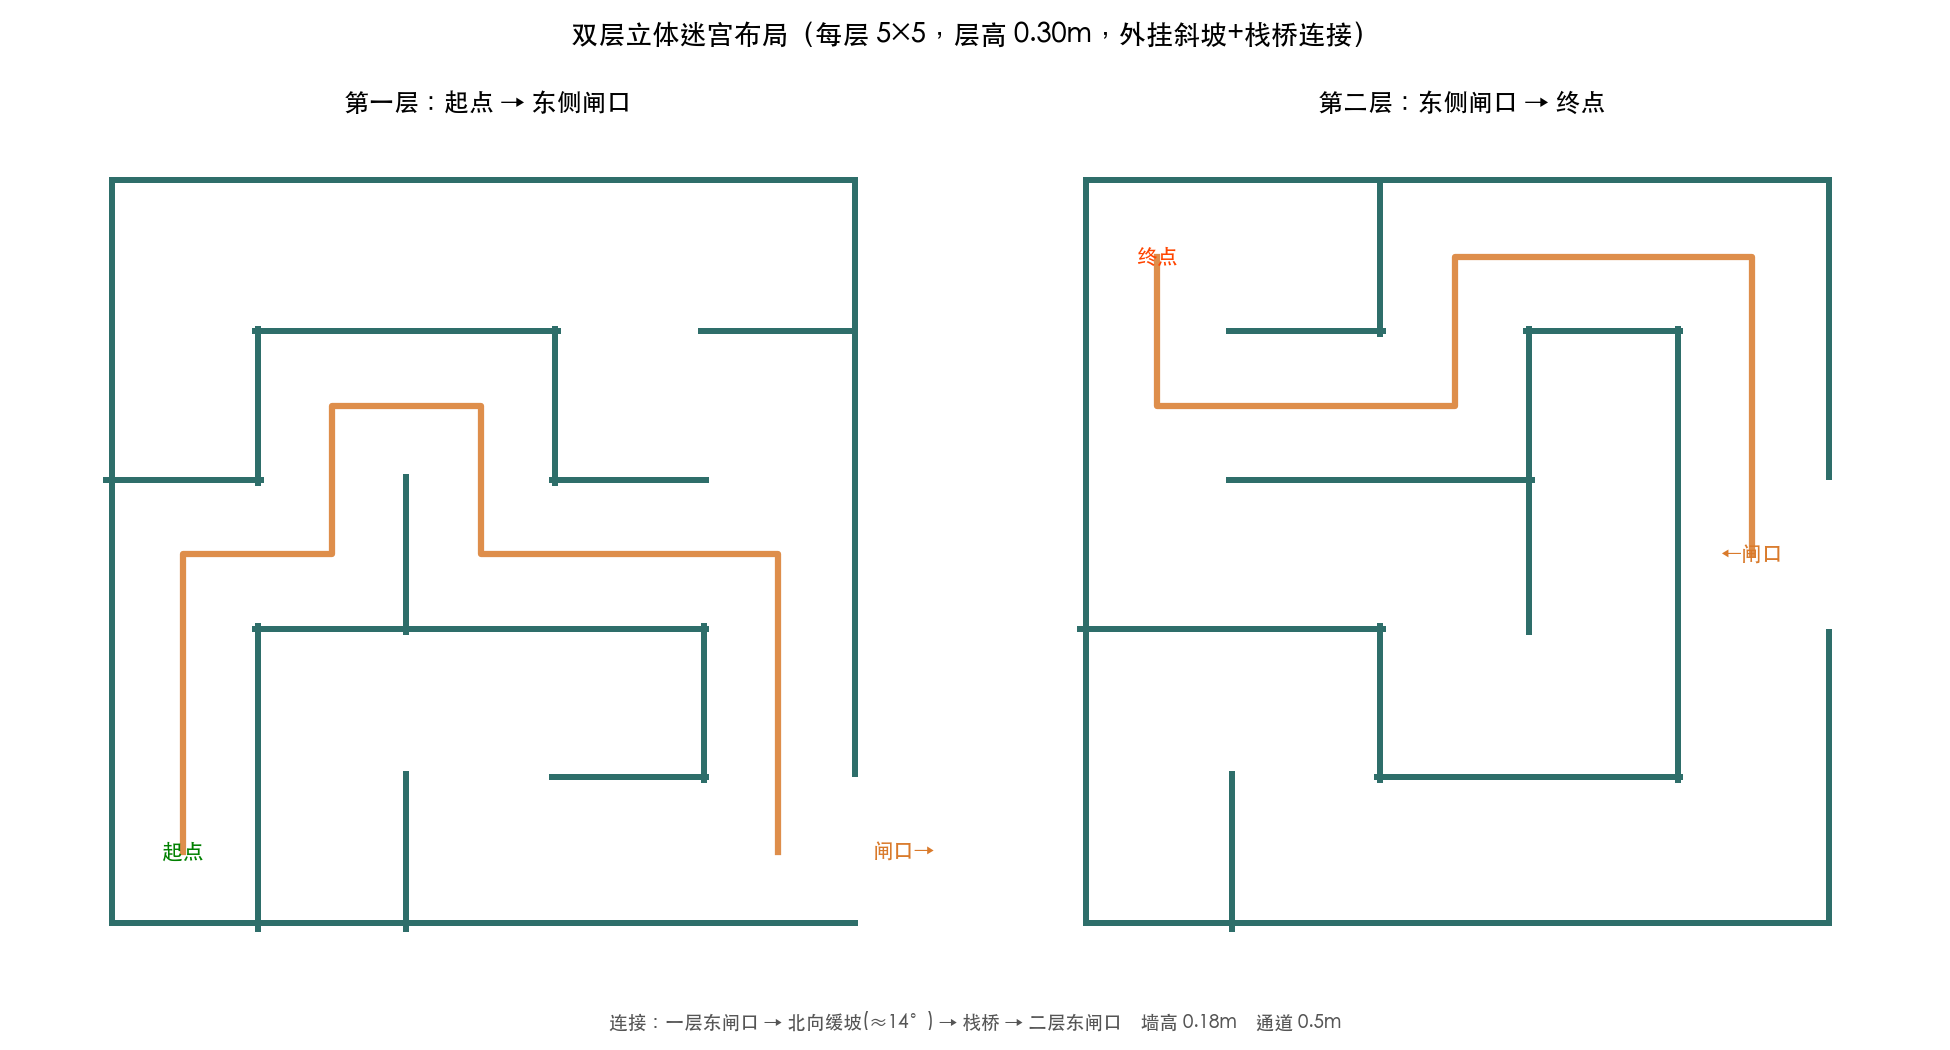
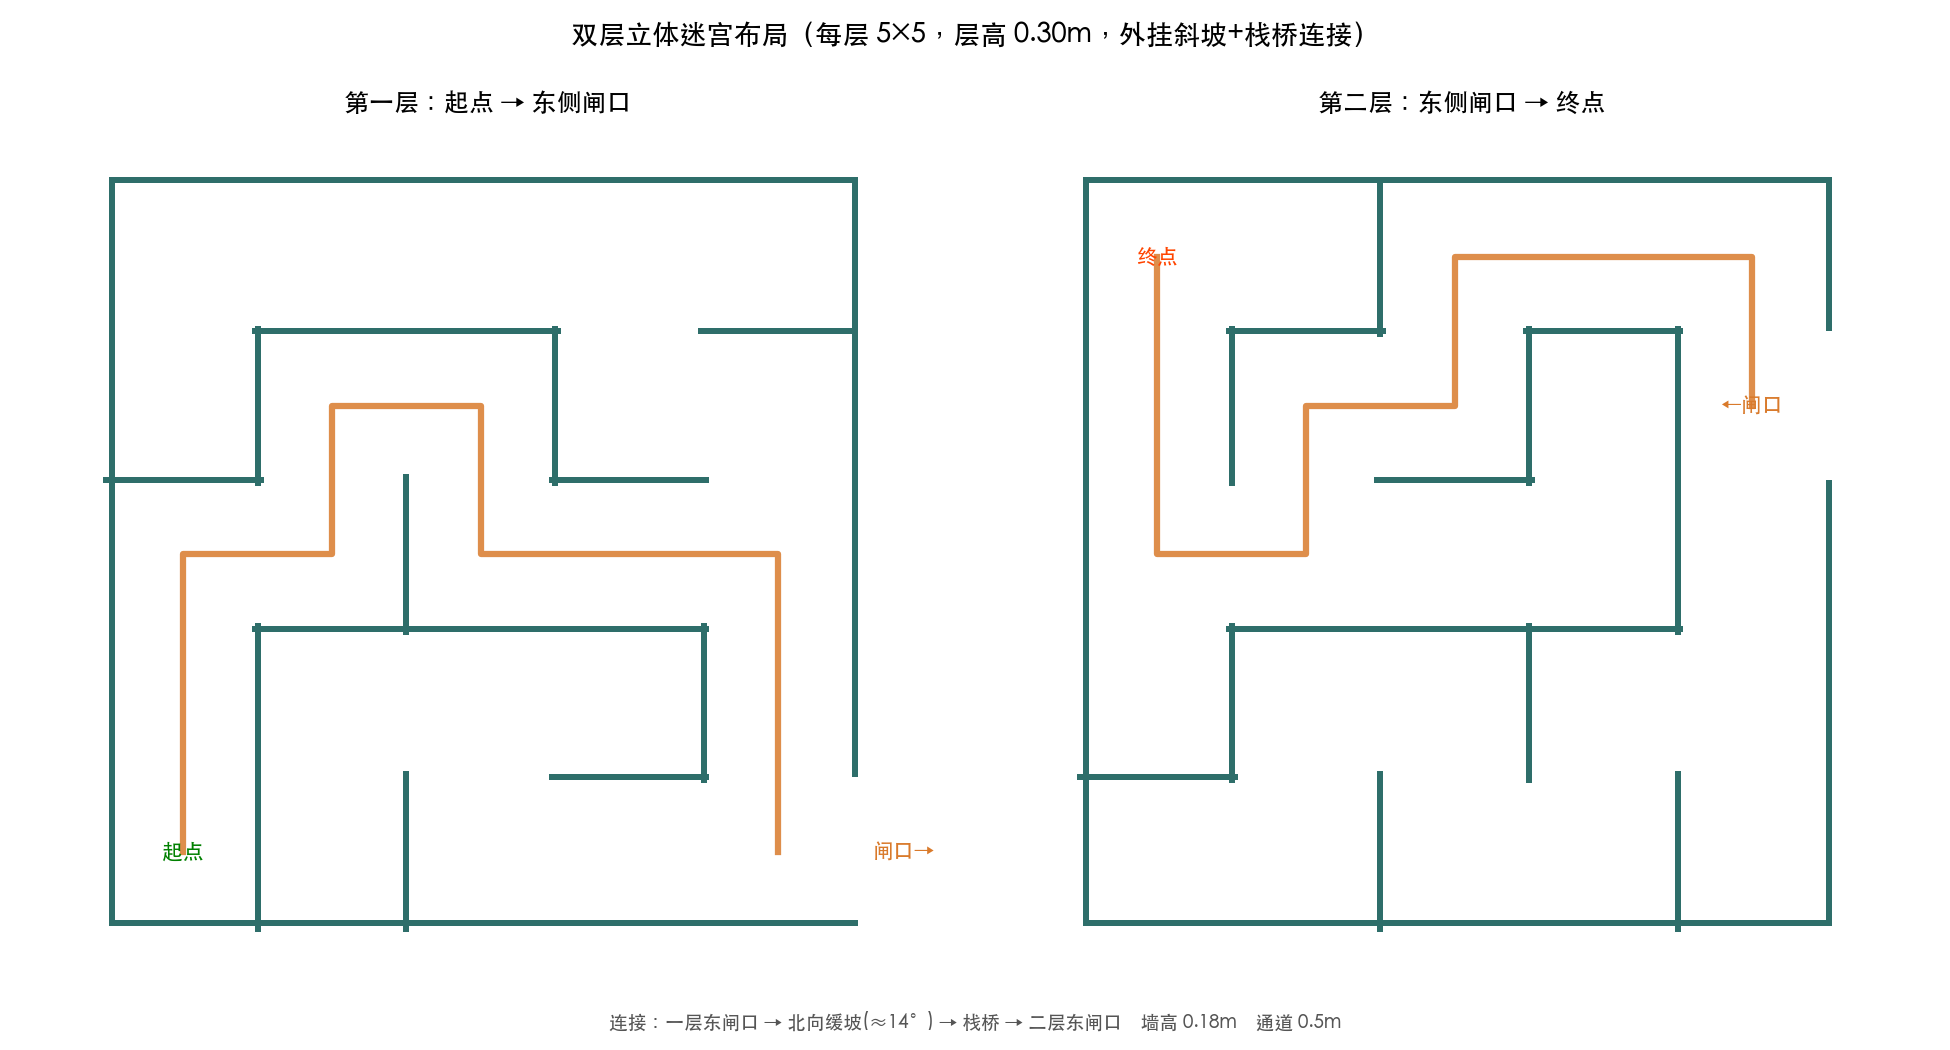
修复验证三连：无滚转等轴视角、二层闸口挪row3加长栈桥、里程计航向修复原地打转

diff --git a/tools/generate_double_deck.py b/tools/generate_double_deck.py
@@ -150,11 +150,11 @@ def outer_walls(floor, tag):
     if floor == 1:      # 闸口 y∈[-1.25,-0.75]
         out.append(solid('%s_E' % tag, HALF, 0.25, zc,
                          WALL_T, 2.0, WALL_H, TEAL))
-    else:               # 闸口 y∈[-0.25,0.25]
-        out.append(solid('%s_E1' % tag, HALF, -0.75, zc,
-                         WALL_T, 1.0, WALL_H, TEAL))
-        out.append(solid('%s_E2' % tag, HALF, 0.75, zc,
-                         WALL_T, 1.0, WALL_H, TEAL))
+    else:               # 闸口 y∈[0.25,0.75]（row3）
+        out.append(solid('%s_E1' % tag, HALF, -0.5, zc,
+                         WALL_T, 1.5, WALL_H, TEAL))
+        out.append(solid('%s_E2' % tag, HALF, 1.0, zc,
+                         WALL_T, 0.5, WALL_H, TEAL))
     return out
 
 
@@ -163,8 +163,8 @@ def build_wbt(w1, w2, waypoints):
     a = lines.append
     a('#VRML_SIM R2023b utf8\n')
     a('WorldInfo {\n  basicTimeStep 16\n}\n')
-    a('Viewpoint {\n  orientation 0.7071 0.7071 0 1.0472\n'
-      '  position 3.4 -3.4 3.2\n}\n')
+    a('Viewpoint {\n  orientation 0.7431 0.3078 0.5944 1.2169\n'
+      '  position 3.4 -3.4 3.4\n}\n')
     a('Background {\n  skyColor [ 0.78 0.84 0.88 ]\n}\n')
     a('DirectionalLight {\n  direction -0.4 0.4 -1\n  intensity 1.4\n'
       '  ambientIntensity 0.4\n}\n')
@@ -210,11 +210,11 @@ def build_wbt(w1, w2, waypoints):
     a(solid('RAMP_RAIL_E', RAMP_X + RAMP_W / 2 + 0.01, cyc, czc + 0.04,
             0.02, round(RAMP_LEN, 4), 0.08, TEAL, rot))
     # 栈桥（顶面与楼板齐平），东/北沿加栏杆
-    a(solid('BRIDGE', 1.4, 0.0, DECK_TOP - DECK_T / 2,
-            0.5, 0.6, DECK_T, CREAM))
-    a(solid('BRIDGE_RAIL_E', 1.66, 0.0, DECK_TOP + 0.04,
-            0.02, 0.6, 0.08, TEAL))
-    a(solid('BRIDGE_RAIL_N', 1.4, 0.31, DECK_TOP + 0.04,
+    a(solid('BRIDGE', 1.4, 0.1, DECK_TOP - DECK_T / 2,
+            0.5, 0.8, DECK_T, CREAM))
+    a(solid('BRIDGE_RAIL_E', 1.66, 0.1, DECK_TOP + 0.04,
+            0.02, 0.8, 0.08, TEAL))
+    a(solid('BRIDGE_RAIL_N', 1.4, 0.51, DECK_TOP + 0.04,
             0.5, 0.02, 0.08, TEAL))
 
     a('# ===== 二层迷宫（楼板上）=====\n')
@@ -456,8 +456,8 @@ def draw_png(w1, p1, w2, p2, out_path):
     draw_panel(a1, w1, (-1.25, -0.75), '第一层：起点 → 东侧闸口', p1,
                [(cc(0, 0)[0], cc(0, 0)[1], 'green', '起点', 'center'),
                 (1.32, -1.0, '#d97a2b', '闸口→', 'left')])
-    draw_panel(a2, w2, (-0.25, 0.25), '第二层：东侧闸口 → 终点', p2,
-               [(cc(4, 2)[0], cc(4, 2)[1], '#d97a2b', '←闸口', 'center'),
+    draw_panel(a2, w2, (0.25, 0.75), '第二层：东侧闸口 → 终点', p2,
+               [(cc(4, 3)[0], cc(4, 3)[1], '#d97a2b', '←闸口', 'center'),
                 (cc(0, 4)[0], cc(0, 4)[1], 'orangered', '终点', 'center')])
     fig.suptitle('双层立体迷宫布局（每层 5×5，层高 0.30m，外挂斜坡+栈桥连接）',
                  fontsize=13)
@@ -472,13 +472,13 @@ def draw_png(w1, p1, w2, p2, out_path):
 
 def main():
     s1, w1, p1 = pick_floor(1, (0, 0), (4, 0))       # 一层：起点→东闸口
-    s2, w2, p2 = pick_floor(100, (4, 2), (0, 4))     # 二层：东闸口→终点
+    s2, w2, p2 = pick_floor(100, (4, 3), (0, 4))     # 二层：东闸口(row3)→终点
     print('一层 seed=%d 路径 %d 格：%s' % (s1, len(p1), p1))
     print('二层 seed=%d 路径 %d 格：%s' % (s2, len(p2), p2))
 
     wps = [cc(i, j) for i, j in p1]
-    wps += [(1.45, -1.0), (1.5, -0.5), (1.5, 0.25), (1.0, 0.0)]
-    wps += [cc(i, j) for i, j in p2[1:]]             # 去掉重复闸口格
+    wps += [(1.45, -1.0), (1.5, -0.5), (1.5, 0.45)]  # 出闸 → 上坡 → 桥上待转点
+    wps += [cc(i, j) for i, j in p2]                 # 二层路线（含闸口格）
     # 相邻去重
     dedup = [wps[0]]
     for w in wps[1:]:

diff --git a/controllers/verifier/verifier.py b/controllers/verifier/verifier.py
@@ -1,10 +1,13 @@
 # -*- coding: utf-8 -*-
 """
-验证机器人：GPS 循迹自动跑完双层迷宫
-====================================
+验证机器人：GPS + 里程计航向，自动跑完双层迷宫
+================================================
 路线由 tools/generate_double_deck.py 预生成（route_data.py）。
-原理：GPS 实时定位 → 朝下一个路点做比例转向（纯追踪）；
-航向角由 GPS 位移估计，无需罗盘。到达全部路点即验证"迷宫可通行"。
+
+航向估计：用左右轮速差做里程计积分（原地转向时也有效），
+位置用 GPS 绝对定位（无累积漂移）。两者互补：
+  - 只用 GPS 位移估航向 → 原地转向时航向永远不更新 → 死循环打转（已修复）
+控制：先原地转到目标方位 ±29° 以内，再比例转向前进。
 """
 import math
 import os
@@ -17,6 +20,7 @@ from route_data import WAYPOINTS
 
 robot = Robot()
 timestep = int(robot.getBasicTimeStep())
+dt = timestep / 1000.0
 
 gps = robot.getDevice('gps')
 gps.enable(timestep)
@@ -26,9 +30,11 @@ right = [robot.getDevice('wheel2'), robot.getDevice('wheel4')]
 for w in left + right:
     w.setPosition(float('inf'))   # 速度模式
 
-V = 2.5        # rad/s，线速度 0.10 m/s（坡上保守）
-K = 2.2        # 转向比例增益
-THRESH = 0.18  # 路点到达半径 m
+V = 2.5         # rad/s，线速度 0.10 m/s（坡上保守）
+K = 1.8         # 转向比例增益
+THRESH = 0.18   # 路点到达半径 m
+SPIN_TH = 0.5   # 偏差超过 0.5 rad 先原地转向
+TRACK = 0.14    # 左右轮距 m
 
 
 def wrap(a):
@@ -37,21 +43,17 @@ def wrap(a):
 
 idx = 0
 est = 0.0            # 初始朝东（+X），与世界文件一致
-prev = None
+vl_cmd = vr_cmd = 0.0
 t0 = robot.getTime()
 
-print('验证机器人启动：共 %d 个路点（一层 %d → 坡道 → 二层 → 终点）'
-      % (len(WAYPOINTS), len(WAYPOINTS)))
+print('验证机器人启动：共 %d 个路点' % len(WAYPOINTS))
 
 while robot.step(timestep) != -1:
+    # 里程计航向：用上一步指令轮速积分（原地转向时依然有效）
+    est = est + (vr_cmd - vl_cmd) / TRACK * dt
+
     p = gps.getValues()
     x, y = p[0], p[1]
-
-    if prev is not None:
-        dx, dy = x - prev[0], y - prev[1]
-        if math.hypot(dx, dy) > 0.01:
-            est = math.atan2(dy, dx)   # 用位移估计航向
-    prev = (x, y)
 
     if idx >= len(WAYPOINTS):
         for w in left + right:
@@ -68,9 +70,13 @@ while robot.step(timestep) != -1:
         continue
 
     e = wrap(math.atan2(ty - y, tx - x) - est)
-    vl = max(-2 * V, min(2 * V, V * (1 - K * e)))
-    vr = max(-2 * V, min(2 * V, V * (1 + K * e)))
-    left[0].setVelocity(vl)
-    left[1].setVelocity(vl)
-    right[0].setVelocity(vr)
-    right[1].setVelocity(vr)
+    if abs(e) > SPIN_TH:
+        vl_cmd, vr_cmd = (-V, V) if e > 0 else (V, -V)   # 原地转向
+    else:
+        vl_cmd = max(-2 * V, min(2 * V, V * (1 - K * e)))
+        vr_cmd = max(-2 * V, min(2 * V, V * (1 + K * e)))
+
+    left[0].setVelocity(vl_cmd)
+    left[1].setVelocity(vl_cmd)
+    right[0].setVelocity(vr_cmd)
+    right[1].setVelocity(vr_cmd)

diff --git a/controllers/verifier/route_data.py b/controllers/verifier/route_data.py
@@ -13,14 +13,15 @@ WAYPOINTS = [
     (1.000, -1.000),
     (1.450, -1.000),
     (1.500, -0.500),
-    (1.500, 0.250),
-    (1.000, 0.000),
+    (1.500, 0.450),
     (1.000, 0.500),
     (1.000, 1.000),
     (0.500, 1.000),
     (0.000, 1.000),
     (0.000, 0.500),
     (-0.500, 0.500),
+    (-0.500, 0.000),
+    (-1.000, 0.000),
     (-1.000, 0.500),
     (-1.000, 1.000),
 ]
